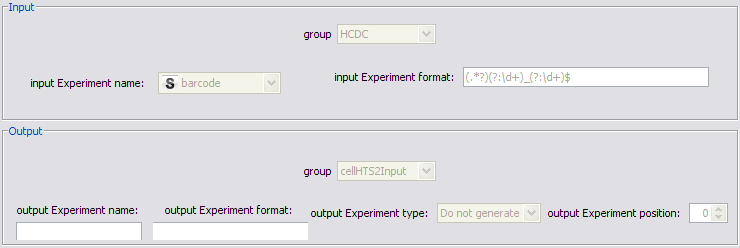
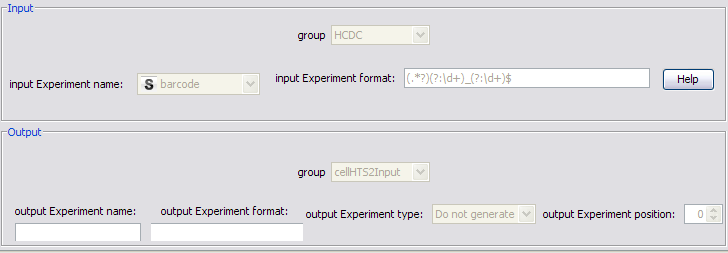
Added help button to the dialog.

diff --git a/ie.tcd.imm.hits.knime.interop/trunk/ie.tcd.imm.hits.knime.interop/src/ie/tcd/imm/hits/knime/interop/BioConverterNodeDialog.java b/ie.tcd.imm.hits.knime.interop/trunk/ie.tcd.imm.hits.knime.interop/src/ie/tcd/imm/hits/knime/interop/BioConverterNodeDialog.java
@@ -6,6 +6,8 @@ import ie.tcd.imm.hits.knime.interop.config.Value;
 import ie.tcd.imm.hits.util.Displayable;
 import ie.tcd.imm.hits.util.Pair;
 
+import java.awt.event.ActionEvent;
+import java.awt.event.ActionListener;
 import java.lang.reflect.Array;
 import java.util.Arrays;
 import java.util.EnumMap;
@@ -16,11 +18,14 @@ import java.util.Map;
 import java.util.TreeMap;
 import java.util.Map.Entry;
 
+import org.eclipse.swt.widgets.Display;
+import org.eclipse.ui.PlatformUI;
 import org.knime.core.data.IntValue;
 import org.knime.core.data.StringValue;
 import org.knime.core.node.defaultnodesettings.DefaultNodeSettingsPane;
 import org.knime.core.node.defaultnodesettings.DialogComponent;
 import org.knime.core.node.defaultnodesettings.DialogComponentBoolean;
+import org.knime.core.node.defaultnodesettings.DialogComponentButton;
 import org.knime.core.node.defaultnodesettings.DialogComponentColumnNameSelection;
 import org.knime.core.node.defaultnodesettings.DialogComponentNumber;
 import org.knime.core.node.defaultnodesettings.DialogComponentString;
@@ -503,6 +508,25 @@ public class BioConverterNodeDialog extends DefaultNodeSettingsPane {
 		addDialogComponent(select(columnType, components, DialogType.name, true));
 		addDialogComponent(select(columnType, components, DialogType.format,
 				true));
+		final DialogComponentButton inputFormatHelp = new DialogComponentButton(
+				"Help");
+		inputFormatHelp.addActionListener(new ActionListener() {
+			@Override
+			public void actionPerformed(final ActionEvent e) {
+				final Display display = Display.getDefault();
+				display.asyncExec(new Runnable() {
+					@Override
+					public void run() {
+						PlatformUI
+								.getWorkbench()
+								.getHelpSystem()
+								.displayHelpResource(
+										"/ie.tcd.imm.hits.knime.interop/help/bioConverter.xhtml#inputContentFormat");
+					}
+				});
+			}
+		});
+		addDialogComponent(inputFormatHelp);
 		createNewGroup("Output");
 		setHorizontalPlacement(false);
 		addDialogComponent(select(columnType, components, DialogType.group,
@@ -512,6 +536,26 @@ public class BioConverterNodeDialog extends DefaultNodeSettingsPane {
 				false));
 		addDialogComponent(select(columnType, components, DialogType.format,
 				false));
+		// final DialogComponentButton outputFormatHelp = new
+		// DialogComponentButton(
+		// "Help");
+		// outputFormatHelp.addActionListener(new ActionListener() {
+		// @Override
+		// public void actionPerformed(final ActionEvent e) {
+		// final Display display = Display.getDefault();
+		// display.asyncExec(new Runnable() {
+		// @Override
+		// public void run() {
+		// PlatformUI
+		// .getWorkbench()
+		// .getHelpSystem()
+		// .displayHelpResource(
+		// "/ie.tcd.imm.hits.knime.interop/help/bioConverter.xhtml#outputContentFormat");
+		// }
+		// });
+		// }
+		// });
+		// addDialogComponent(outputFormatHelp);
 		addDialogComponent(select(columnType, components, DialogType.type,
 				false));
 		addDialogComponent(select(columnType, components, DialogType.position,
